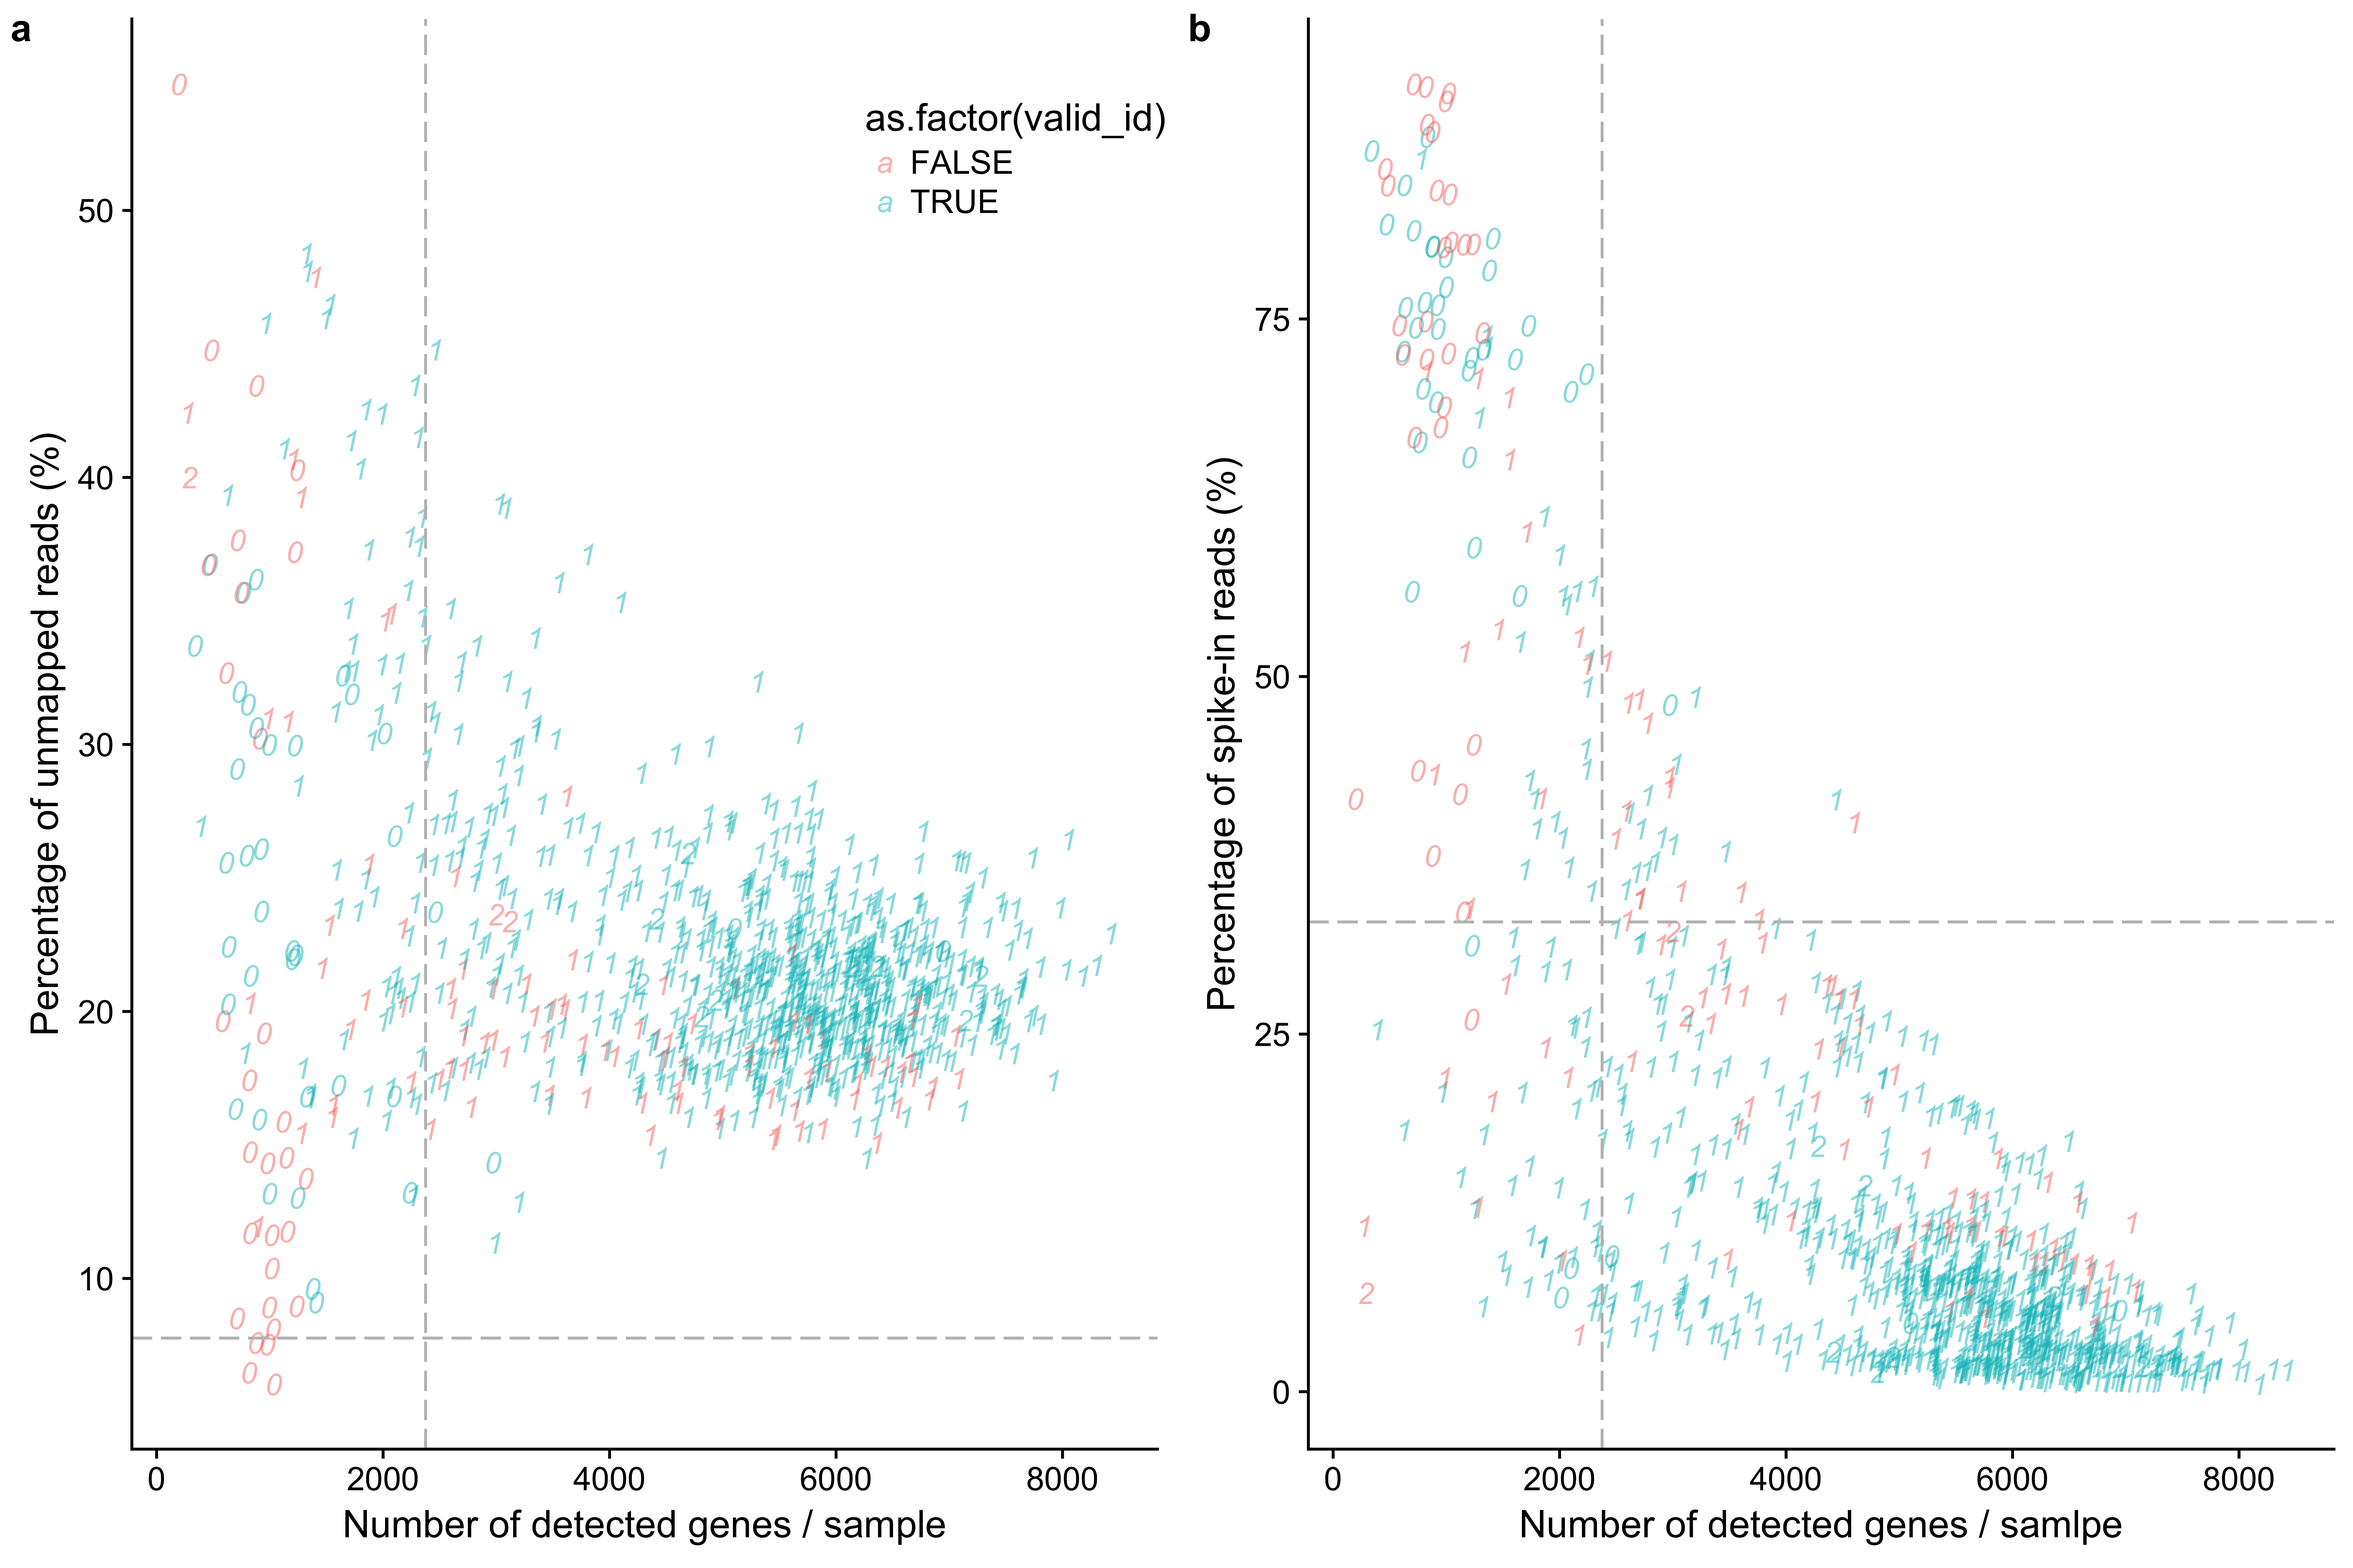
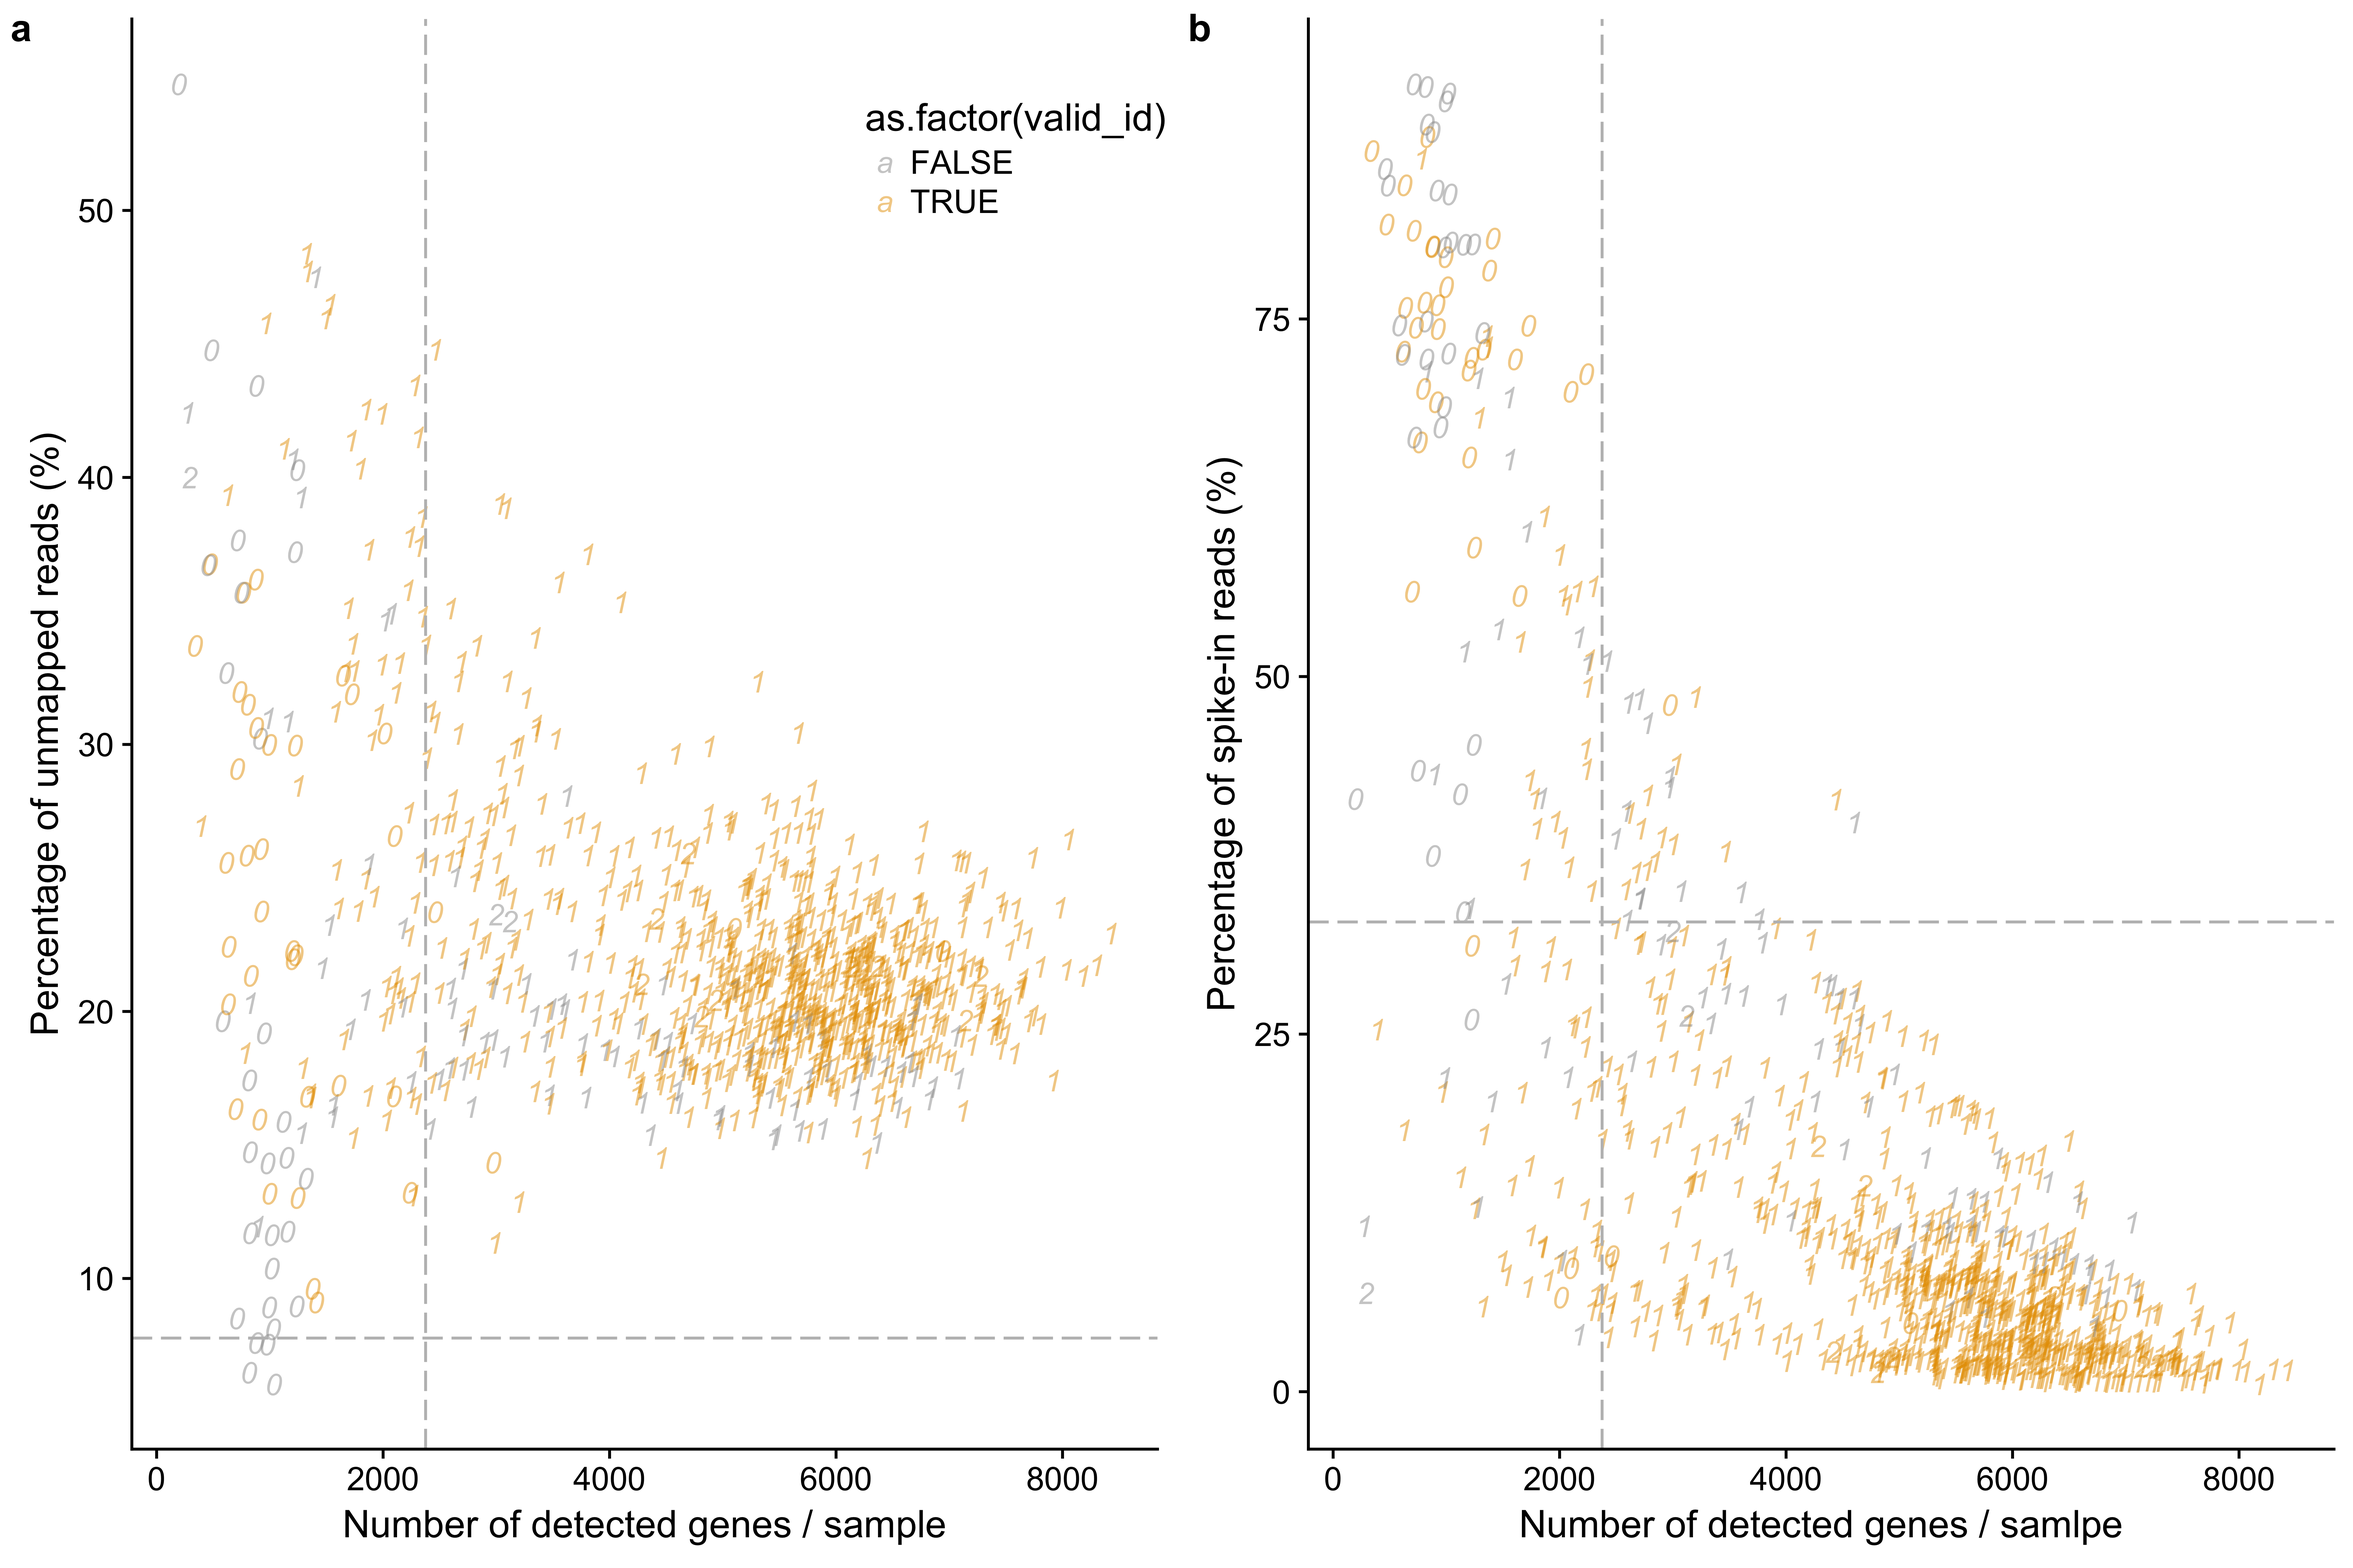
Build site.

diff --git a/docs/sampleqc.html b/docs/sampleqc.html
@@ -319,7 +319,7 @@ shared across the workflowr files. -->
 <p><strong>Last updated:</strong> 2017-09-19</p>
 <!-- Insert the code version (Git commit SHA1) if Git repository exists and R
  package git2r is installed -->
-<p><strong>Code version:</strong> 56e2885</p>
+<p><strong>Code version:</strong> c99f6b2</p>
 <p>This is for qc of the samples. Based on obsevation under the scope and the sequencing results, samples with bad quality will be removed.</p>
 <div id="setup" class="section level2">
 <h2>Setup</h2>
@@ -327,9 +327,12 @@ shared across the workflowr files. -->
 library(&quot;dplyr&quot;)
 library(&quot;ggplot2&quot;)
 library(&quot;tidyr&quot;)
+library(&quot;edgeR&quot;)
 theme_set(theme_cowplot())
 source(&quot;../code/functions.R&quot;)
 library(&quot;Biobase&quot;)</code></pre>
+<pre class="r"><code># The palette with grey:
+cbPalette &lt;- c(&quot;#999999&quot;, &quot;#E69F00&quot;, &quot;#56B4E9&quot;, &quot;#009E73&quot;, &quot;#F0E442&quot;, &quot;#0072B2&quot;, &quot;#D55E00&quot;, &quot;#CC79A7&quot;)</code></pre>
 <p>Import data.</p>
 <pre class="r"><code>fname &lt;- Sys.glob(&quot;../data/eset/*.rds&quot;)
 eset &lt;- Reduce(combine, Map(readRDS, fname))
@@ -519,7 +522,7 @@ data_lda_p  no one two
 ## plot before and after
 plot_before &lt;- ggplot(data, aes(x = concentration, y = molecules / 10^3,
                color = as.factor(group))) +
-               geom_text(aes(label = cell_number)) +
+               geom_text(aes(label = cell_number, alpha = 0.5)) +
                labs(x = &quot;Concentration&quot;, y = &quot;Gene molecules (thousands)&quot;, title = &quot;Before&quot;) +
                scale_color_brewer(palette = &quot;Dark2&quot;) +
                theme(legend.position = &quot;none&quot;)
@@ -527,7 +530,7 @@ plot_before &lt;- ggplot(data, aes(x = concentration, y = molecules / 10^3,
 
 plot_after &lt;- ggplot(data, aes(x = concentration, y = molecules / 10^3,
                color = as.factor(data_lda_p))) +
-               geom_text(aes(label = cell_number)) +
+               geom_text(aes(label = cell_number, alpha = 0.5)) +
                labs(x = &quot;Concentration&quot;, y = &quot;Gene molecules (thousands)&quot;, title = &quot;After&quot;) +
                scale_color_brewer(palette = &quot;Dark2&quot;) +
                theme(legend.position = &quot;none&quot;)
@@ -577,14 +580,14 @@ anno$conversion_outlier &lt;- anno$cell_number == 1 &amp; anno$dm_conversion &gt
 ## plot before and after
 plot_ercc_before &lt;- ggplot(data, aes(x = dm_conversion, y = conversion,
                color = as.factor(group))) +
-               geom_text(aes(label = cell_number)) +
+               geom_text(aes(label = cell_number, alpha = 0.5)) +
                labs(x = &quot;Convertion of Fly spike-ins&quot;, y = &quot;Conversion of genes&quot;, title = &quot;Before&quot;) +
                scale_color_brewer(palette = &quot;Dark2&quot;) +
                theme(legend.position = &quot;none&quot;)
 
 plot_ercc_after &lt;- ggplot(data, aes(x = dm_conversion, y = conversion,
                color = as.factor(data_ercc_lda_p))) +
-               geom_text(aes(label = cell_number)) +
+               geom_text(aes(label = cell_number, alpha = 0.5)) +
                labs(x = &quot;Convertion of Fly spike-ins&quot;, y = &quot;Conversion of genes&quot;, title = &quot;After&quot;) +
                scale_color_brewer(palette = &quot;Dark2&quot;) +
                theme(legend.position = &quot;none&quot;)
@@ -607,25 +610,40 @@ anno$filter_all &lt;- anno$cell_number == 1 &amp;
                 ##   anno$cut_off_ercc &amp;
                    anno$cut_off_spike &amp;
                    anno$cut_off_genes 
-table(anno$filter_all)</code></pre>
-<pre><code>
-FALSE  TRUE 
-  319   641 </code></pre>
+table(anno[anno$filter_all, c(&quot;experiment&quot;,&quot;chip_id&quot;)])</code></pre>
+<pre><code>          chip_id
+experiment NA18498 NA18502 NA18505 NA18508 NA18520 NA18852 NA18856 NA19092
+  03162017       0       0      12       0      14      10       0       0
+  03172017       0      19      24       0       0      12       0       0
+  03232017       0      26      12       0      24      15       0       0
+  03302017       0      26       0       0      13      16       0       0
+  03312017       0      18       0       0      15       0      18      27
+  04052017       0      47       3       0      11      16       0       0
+  04072017       0      26       0       0       0       0      24      26
+  04132017       7       0       0       0      15       9       0       0
+  04142017       5       0       0       0      23       0       0       0
+  04202017       5       0       0      16       0       0      16       0
+          chip_id
+experiment NA19098 NA19190 NA19203
+  03162017      14       0       0
+  03172017      27       0       0
+  03232017       0       0       0
+  03302017      12       0       0
+  03312017       0       0       0
+  04052017       0       0       0
+  04072017       7       0       0
+  04132017       0       0      15
+  04142017       0       0       9
+  04202017       0       7       0</code></pre>
 </div>
 <div id="plots" class="section level3">
 <h3>Plots</h3>
-<pre class="r"><code>## plot only the sample with valid ID
-table(anno$valid_id)</code></pre>
-<pre><code>
-FALSE  TRUE 
-  126   834 </code></pre>
-<pre class="r"><code>dim(anno[anno$valid_id, ])</code></pre>
-<pre><code>[1] 834  51</code></pre>
 <pre class="r"><code>genes_unmapped &lt;-  ggplot(anno,
                    aes(x = detect_hs, y = unmapped_ratios * 100,
                        col = as.factor(valid_id), 
                        label = as.character(cell_number),
                        height = 600, width = 2000)) +
+                   scale_colour_manual(values=cbPalette) +
                    geom_text(fontface = 3, alpha = 0.5) + 
                    geom_vline(xintercept = cut_off_genes, 
                               colour=&quot;grey&quot;, linetype = &quot;longdash&quot;) +
@@ -639,6 +657,7 @@ genes_spike &lt;- ggplot(anno,
                    col = as.factor(valid_id), 
                    label = as.character(cell_number), 
                    height = 600, width = 2000)) +
+               scale_colour_manual(values=cbPalette) +
                scale_shape_manual(values=c(1:10)) +
                geom_text(fontface = 3, alpha = 0.5) + 
                geom_vline(xintercept = cut_off_genes, 
@@ -683,6 +702,78 @@ plot_grid(genes_unmapped + theme(legend.position=c(.7,.9)),
           labels = letters[3:4])</code></pre>
 <p><img src="figure/sampleqc.Rmd/plots-2.png" width="3600" style="display: block; margin: auto;" /></p>
 </div>
+</div>
+<div id="pca" class="section level2">
+<h2>PCA</h2>
+<p>Select the most variable human genes</p>
+<pre class="r"><code>## look at human genes
+eset_hs &lt;- eset[fData(eset)$source == &quot;H. sapiens&quot;, ]
+head(featureNames(eset_hs))</code></pre>
+<pre><code>[1] &quot;ENSG00000000003&quot; &quot;ENSG00000000005&quot; &quot;ENSG00000000419&quot; &quot;ENSG00000000457&quot;
+[5] &quot;ENSG00000000460&quot; &quot;ENSG00000000938&quot;</code></pre>
+<pre class="r"><code>## remove genes of all 0s
+eset_hs_clean &lt;- eset_hs[rowSums(exprs(eset_hs)) != 0, ]
+dim(eset_hs_clean)</code></pre>
+<pre><code>Features  Samples 
+   17615      960 </code></pre>
+<pre class="r"><code>## convert to log2 cpm
+mol_hs_cpm &lt;- cpm(exprs(eset_hs_clean), log = TRUE)
+hist(rowMeans(mol_hs_cpm))</code></pre>
+<p><img src="figure/sampleqc.Rmd/select-gene-1.png" width="768" style="display: block; margin: auto;" /></p>
+<pre class="r"><code>## variable genes
+mol_hs_cpm_var &lt;- log(apply(mol_hs_cpm, 1, var))
+hist(mol_hs_cpm_var)</code></pre>
+<p><img src="figure/sampleqc.Rmd/select-gene-2.png" width="768" style="display: block; margin: auto;" /></p>
+<pre class="r"><code>sum(mol_hs_cpm_var &gt; 0.5)</code></pre>
+<pre><code>[1] 5995</code></pre>
+<p>Using the 5995 most variable genes to perform PCA</p>
+<pre class="r"><code>## pca of top variable genes
+mol_hs_cpm &lt;- mol_hs_cpm[mol_hs_cpm_var &gt; 0.5, ]
+pca_hs &lt;- run_pca(mol_hs_cpm) 
+plot_pca(pca_hs$PCs, pcx = 1, pcy = 2, explained = pca_hs$explained,
+         metadata = pData(eset_hs_clean), color = &quot;experiment&quot;)</code></pre>
+<p><img src="figure/sampleqc.Rmd/pca-1.png" width="768" style="display: block; margin: auto;" /></p>
+<pre class="r"><code>## combine to investigate the effect
+pca_anno &lt;- cbind(anno, pca_hs$PCs)
+
+## total mapped vs pc1
+pc1_reads &lt;- ggplot(pca_anno, aes(x = mapped, y = PC1)) +
+                     geom_text(aes(label = cell_number, 
+                                   col = filter_all, alpha = 0.5)) + 
+                     scale_colour_manual(values=cbPalette) +
+                     geom_smooth()
+
+## unmapped ratio vs pc1
+pc1_unmapped &lt;- ggplot(pca_anno, aes(x = unmapped_ratios, y = PC1)) +
+                       geom_text(aes(label = cell_number,
+                                     col = filter_all, alpha = 0.5)) + 
+                       scale_colour_manual(values=cbPalette) + 
+                       geom_smooth()
+
+## spike-in ratio vs pc1
+pc1_spike &lt;- ggplot(pca_anno, aes(x = spike_percentage, y = PC1)) +
+                     geom_text(aes(label = cell_number,
+                                   col = filter_all, alpha = 0.5)) + 
+                     scale_colour_manual(values=cbPalette) + 
+                     geom_smooth()
+
+## number of detected gene vs pc1
+pc1_gene &lt;- ggplot(pca_anno, aes(x = detect_hs, y = PC1)) +
+                     geom_text(aes(label = cell_number,
+                                   col = filter_all, alpha = 0.5)) + 
+                     scale_colour_manual(values=cbPalette) + 
+                     geom_smooth()
+
+plot_grid(pc1_reads + theme(legend.position=c(.7,.5)),
+          pc1_unmapped + theme(legend.position = &quot;none&quot;),
+          pc1_spike + theme(legend.position = &quot;none&quot;), 
+          pc1_gene + theme(legend.position = &quot;none&quot;),
+          labels = LETTERS[1:4])</code></pre>
+<pre><code>`geom_smooth()` using method = &#39;loess&#39;
+`geom_smooth()` using method = &#39;loess&#39;
+`geom_smooth()` using method = &#39;loess&#39;
+`geom_smooth()` using method = &#39;loess&#39;</code></pre>
+<p><img src="figure/sampleqc.Rmd/pca-2.png" width="768" style="display: block; margin: auto;" /></p>
 </div>
 
 <hr>
